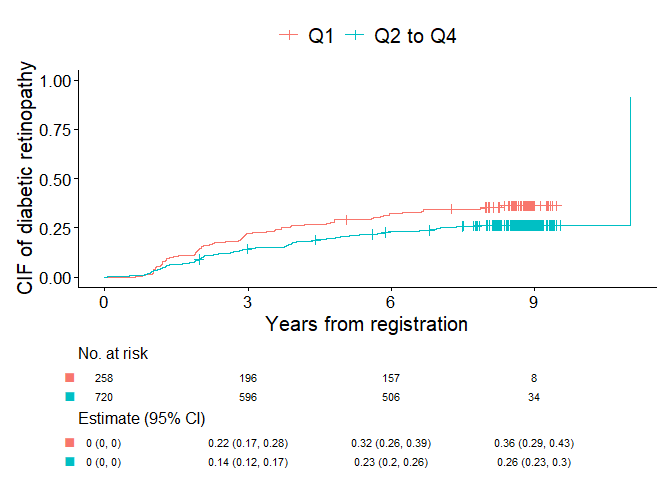
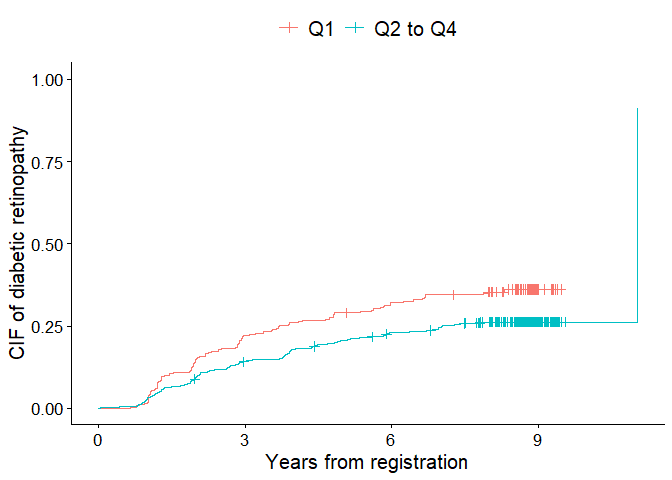
README

diff --git a/README.md b/README.md
@@ -9,9 +9,9 @@
 
 ## Quick start
 
-This package is a compact and unified toolkit for Kaplan–Meier /
-Aalen–Johansen curves, visualization, and direct polytomous regression
-based on polytomous log odds products in R.
+This package is a compact and unified toolkit for
+Kaplan–Meier/Aalen–Johansen curves, visualization, and direct polytomous
+regression of cumulative incidence functions in R.
 
 ``` r
 library(cifmodeling)
@@ -22,14 +22,14 @@ cifplot(Event(t,epsilon) ~ fruitq, data=diabetes.complications,
 
 <img src="man/figures/README-example0-1-1.png" width="100%" />
 
-This is an example code snippet applying `cifplot()` to create
-cumulative incidence function (CIF) curves. In competing risks data,
-censoring is often coded as 0, events of interest as 1, and competing
-risks as 2. The variable `epsilon` in `diabetes.complications` data
-frame represents the occurrence of competing risks according to this
-coding scheme. By specifying `printEachEvent=TRUE`, the CIF curve for
-diabetic retinopathy (`epsilon=1`) is output on the left, and the CIF
-curve for macrovascular complications (`epsilon=2`) is output on the
+This is an example code snippet applying `cifplot()` to visualize
+Aalen–Johansen cumulative incidence functions (CIF). In competing risks
+data, censoring is often coded as 0, events of interest as 1, and
+competing risks as 2. The variable `epsilon` in `diabetes.complications`
+data frame represents the occurrence of competing risks according to
+this coding scheme. By specifying `printEachEvent=TRUE`, the CIF curve
+for diabetic retinopathy (`epsilon=1`) is output on the left, and the
+CIF curve for macrovascular complications (`epsilon=2`) is output on the
 right.
 
 ## Overview
@@ -478,7 +478,7 @@ arguments are also used to customize the axis labels.
 ``` r
 output1 <- cifcurve(Event(t,epsilon)~fruitq1, data=diabetes.complications, 
                     outcome.type="COMPETING-RISK")
-cifplot(output1, addConfidenceInterval=FALSE, addEstimateTable=TRUE, 
+cifplot(output1, addConfidenceInterval=FALSE, addRiskTable=FALSE, 
         addCensorMark=TRUE, addCompetingRiskMark=FALSE, 
         label.y="CIF of diabetic retinopathy", label.x="Years from registration")
 ```
@@ -498,7 +498,7 @@ strata labels used in the plot if supplied by the user.
 ``` r
 output2 <- extract_time_to_event(Event(t,epsilon)~fruitq1, 
                                  data=diabetes.complications, which_event="event2")
-cifplot(output1, addConfidenceInterval=FALSE, addEstimateTable=TRUE, 
+cifplot(output1, addConfidenceInterval=FALSE, addRiskTable=FALSE, 
         addCensorMark=FALSE, addCompetingRiskMark=TRUE, competing.risk.time=output2, 
         label.y="CIF of diabetic retinopathy", label.x="Years from registration")
 ```
@@ -517,11 +517,11 @@ to `style="FRAMED"` specification.
 
 ``` r
 cifplot(Event(t,epsilon)~fruitq1, data=diabetes.complications, 
-        outcome.type="COMPETING-RISK", addConfidenceInterval=FALSE, addEstimateTable=TRUE, 
-        addCensorMark=FALSE, addCompetingRiskMark=TRUE, competing.risk.time=output2, 
-        label.y="CIF of diabetic retinopathy", label.x="Years from registration", 
-        label.strata=c("High intake","Low intake"), level.strata=c("Q2 to Q4","Q1"), 
-        order.strata=c("Q1", "Q2 to Q4"), style="FRAMED")
+        outcome.type="COMPETING-RISK", addConfidenceInterval=FALSE, addRiskTable=FALSE, 
+        addEstimateTable=TRUE, addCensorMark=FALSE, addCompetingRiskMark=TRUE, 
+        competing.risk.time=output2, label.y="CIF of diabetic retinopathy", 
+        label.x="Years from registration", label.strata=c("High intake","Low intake"), 
+        level.strata=c("Q2 to Q4","Q1"), order.strata=c("Q1", "Q2 to Q4"), style="FRAMED")
 ```
 
 <img src="man/figures/README-example1-4-1.png" width="100%" />
